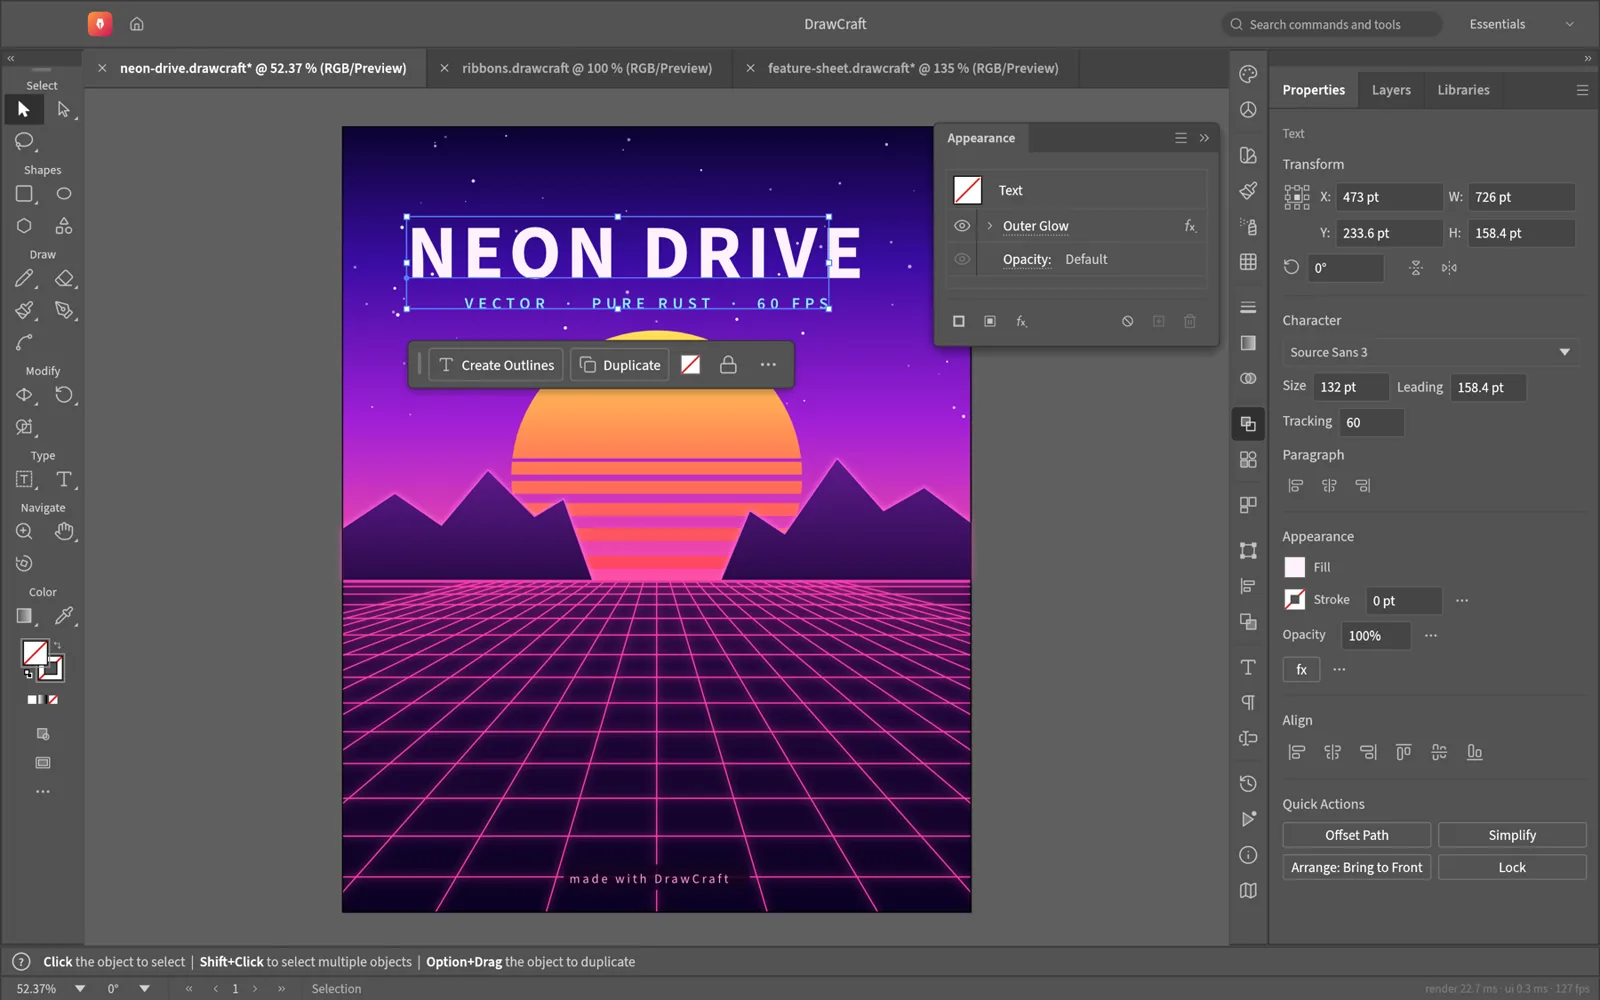
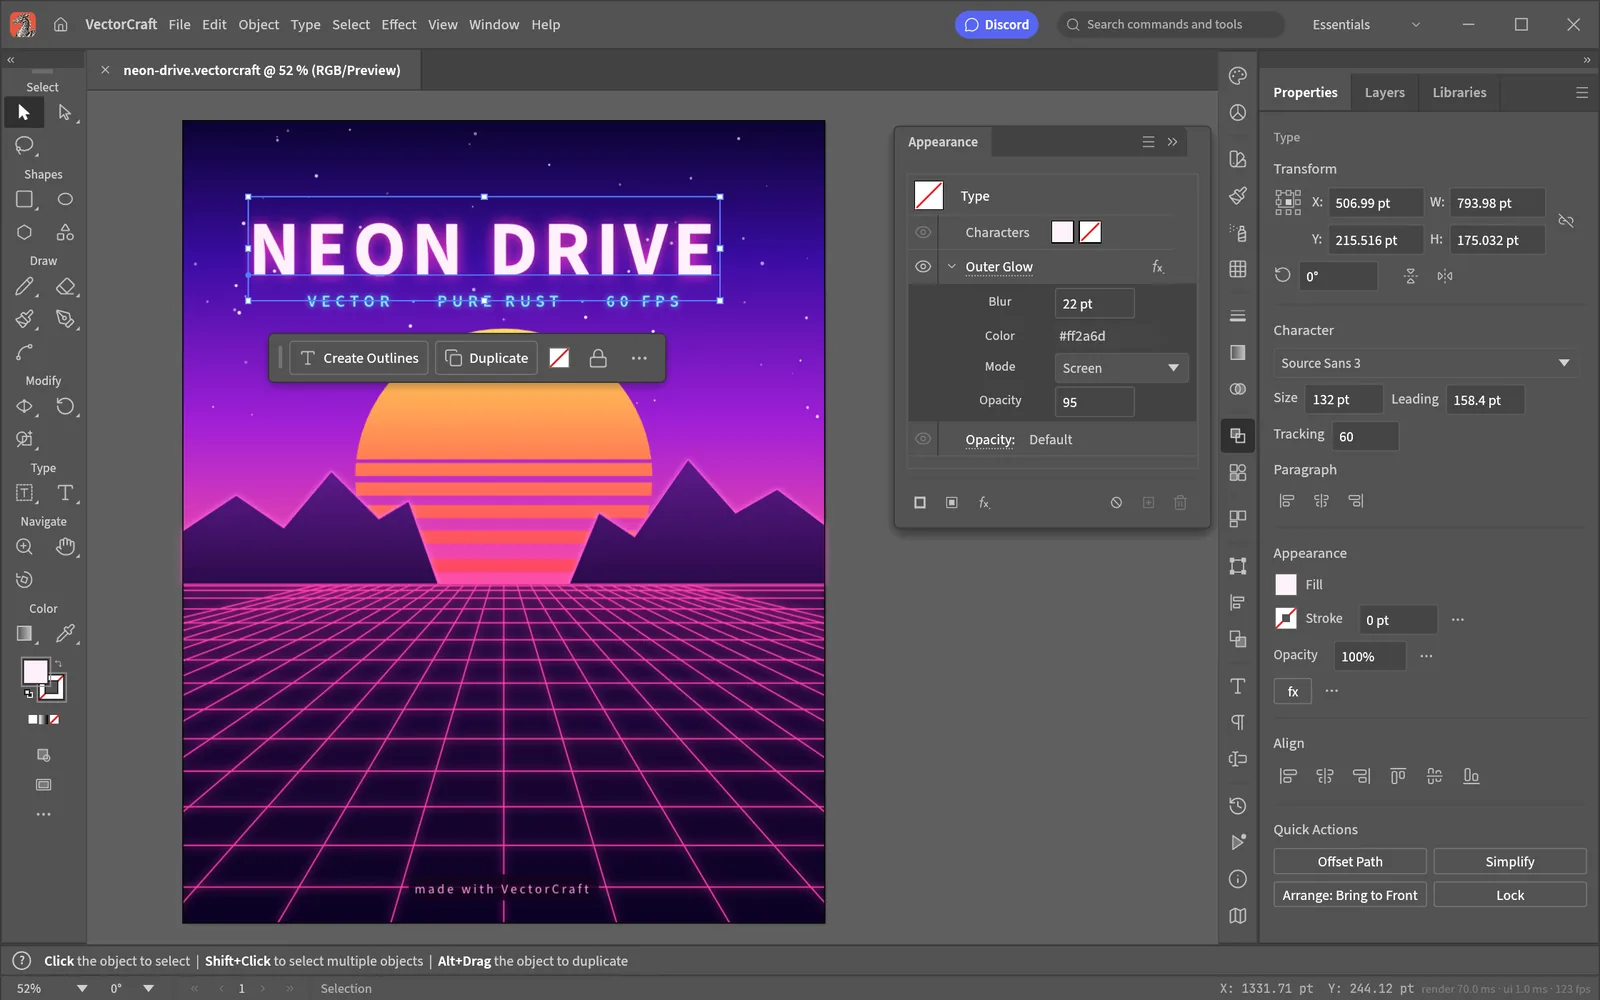
Refresh VectorCraft screenshots and bump Crafting App downloads
VectorCraft's shots and share image now come from its latest README
renders, including the new Perspective Grid shot. The gallery pairs an
even number of shots instead of leading with a full-width one, so the
four VectorCraft shots sit in a 2x2 grid.

PhotoCraft moves to 0.3.0 and VectorCraft and EffectCraft to 0.4.0.
Their releases add Windows on ARM builds, now listed under Windows.

diff --git a/frontend/apps/artcraft-website-next/src/lib/crafting-apps.ts b/frontend/apps/artcraft-website-next/src/lib/crafting-apps.ts
@@ -177,25 +177,31 @@ export const CRAFTING_APPS: CraftApp[] = [
         file: "hero.webp",
         source: "shot-1-neon.png",
         caption: "Neon Drive — made in VectorCraft",
-        alt: "VectorCraft editing a synthwave poster titled Neon Drive with an outer glow in the Appearance panel",
+        alt: "VectorCraft editing the Neon Drive poster, with the title's live outer glow settings in the Appearance panel and its character settings in the Properties panel",
       },
       {
         file: "ribbons.webp",
         source: "shot-2-ribbons.png",
-        caption: "Live blends between editable spines",
-        alt: "VectorCraft showing live blends: 70 smooth-color steps between two ribbon paths",
+        caption: "Live blends and layers",
+        alt: "VectorCraft showing three live blend ribbons clipped to the artboard, one selected with its key paths, and the Layers panel listing the clip group and blends",
+      },
+      {
+        file: "bezier.webp",
+        source: "shot-4-bezier.png",
+        caption: "Pen and direct selection",
+        alt: "VectorCraft direct-selecting the anchor points and bezier handles of a crescent moon, with the contextual task bar below it",
+      },
+      {
+        file: "perspective.webp",
+        source: "shot-5-perspective.png",
+        caption: "Perspective grid, still editable",
+        alt: "VectorCraft with two lit building facades drawn on the left and right planes of a two-point perspective grid at sunset",
       },
       {
         file: "sheet.webp",
         source: "shot-3-sheet.png",
         caption: "Booleans, mesh, repeat and envelope",
-        alt: "VectorCraft feature sheet with exact booleans, a gradient mesh, a live radial repeat and an envelope distort",
-      },
-      {
-        file: "bezier.webp",
-        source: "shot-4-bezier.png",
-        caption: "Direct selection on bezier anchors",
-        alt: "VectorCraft direct-selecting the anchors and handles of a crescent moon path",
+        alt: "VectorCraft in its light theme with four artboards: shape booleans, a gradient mesh, a live radial repeat and an envelope distort",
       },
     ],
   },

diff --git a/frontend/apps/artcraft-website-next/src/lib/crafting-app-releases.ts b/frontend/apps/artcraft-website-next/src/lib/crafting-app-releases.ts
@@ -171,15 +171,34 @@ export function craftRelease(
   return { version, assets };
 }
 
+// Windows on ARM builds, which only some apps' releases include so far.
+const WITH_WINDOWS_ARM64: readonly CraftReleaseAsset[] = [
+  ...CRAFT_RELEASE_ASSETS,
+  {
+    file: "{slug}-{version}-windows-arm64.msi",
+    group: "Windows",
+    label: "Installer (ARM64)",
+    description: "Windows 11 on ARM laptops.",
+    arch: "aarch64",
+  },
+  {
+    file: "{slug}-{version}-windows-arm64-portable.zip",
+    group: "Windows",
+    label: "Portable (ARM64)",
+    description: "Unzip and run on Windows on ARM.",
+    arch: "aarch64",
+  },
+];
+
 const LATEST = craftRelease(CRAFTING_APPS_LATEST_VERSION);
 
 // Every app must be listed, so a new slug fails the type check until it is.
 export const CRAFT_APP_RELEASES: Record<CraftAppSlug, CraftRelease | null> = {
-  photocraft: craftRelease("0.2.0"),
-  vectorcraft: craftRelease("0.3.1"),
+  photocraft: craftRelease("0.3.0", WITH_WINDOWS_ARM64),
+  vectorcraft: craftRelease("0.4.0", WITH_WINDOWS_ARM64),
   filmcraft: LATEST,
   lightcraft: LATEST,
   printcraft: LATEST,
-  effectcraft: craftRelease("0.3.1"),
+  effectcraft: craftRelease("0.4.0", WITH_WINDOWS_ARM64),
   designcraft: LATEST,
 };

diff --git a/frontend/apps/artcraft-website-next/src/components/apps/app-sections.tsx b/frontend/apps/artcraft-website-next/src/components/apps/app-sections.tsx
@@ -32,11 +32,12 @@ import { ColorAccent } from "./app-wordmark";
 const CELL_HEADING_CLASSES =
   "mt-4 font-display text-3xl font-medium leading-[1.05] tracking-[-0.03em] text-ink-strong sm:text-4xl";
 
-// The hero carries shot 01. Window captures lead with a full-width shot,
-// then pair; portrait pages (layout spreads) sit four across.
+// The hero carries shot 01. Window captures pair up, and an odd one out
+// leads at full width; portrait pages (layout spreads) sit four across.
 export function AppGallery({ app, index }: { app: CraftApp; index: string }) {
   const [, ...shots] = app.shots;
   const portrait = shots.every((shot) => shot.portrait);
+  const leadFullWidth = !portrait && shots.length % 2 === 1;
   return (
     <SectionShell id="gallery">
       <SectionEyebrow
@@ -55,7 +56,7 @@ export function AppGallery({ app, index }: { app: CraftApp; index: string }) {
           <figure
             key={shot.file}
             data-reveal
-            className={twMerge("bg-bg", !portrait && i === 0 && "md:col-span-2")}
+            className={twMerge("bg-bg", leadFullWidth && i === 0 && "md:col-span-2")}
           >
             <a
               href={craftShotSourceUrl(app, shot)}
